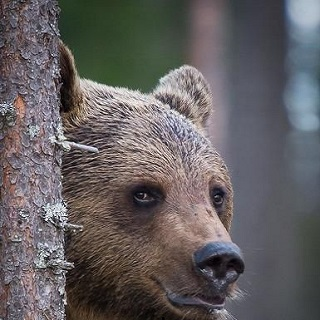
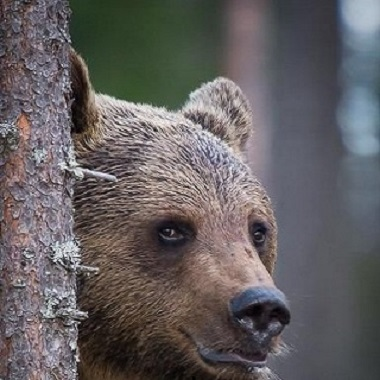
CSS HW2 Second try

diff --git a/public/views/css/homework-2/css/style.css b/public/views/css/homework-2/css/style.css
@@ -44,20 +44,12 @@ footer {
 /*Header style*/
 header {
   height: 60px;
-  position: relative;
-}
-.menu {
-  position: absolute;
-  left: : 0;
-  top: 50%;
-  margin-top: -8px;
-  padding-left: 25px;
+  padding: 22px 25px;
 }
 .autorization {
   position: absolute;
   right: 0;
-  top: 50%;
-  margin-top: -8px;
+  top: 22px;
   padding-right: 25px;
 }
 
@@ -86,17 +78,10 @@ table {
 }
 td {
   border: 1px solid #444;
-}
-td {
-  height: 420px;
-  position: relative;
+  padding: 20px 55px;
 }
 img {
-  width: 380px;
-  position: absolute;
-  left: 50%;
-  margin-top: -190px;
-  margin-left: -190px;
+  margin: auto;
 }
 
 /*Form style*/
@@ -107,28 +92,26 @@ input {
   border: 1px solid #444;
   font-size: 16px;
   margin-right: 30px;
-  padding: 6.8px 15px;
+  padding: 0px 15px;
+  height: 36px;
 }
 button {
   border: 1px solid #444;
   text-transform: uppercase;
   font-weight: bold;
-  padding: 8px 15px;
+  padding: 0px 15px;
+  height: 36px;
 }
 button:hover {
-  border: 1px solid orange;
+  border-color: orange;
 }
 
 /*Footer style*/
 footer {
   height: 60px;
-  position: relative;
+  padding-top: 22px;
 }
 footer p {
-  position: absolute;
-  top: 50%;
-  left: 50%;
-  margin-top: -8px;
-  margin-left: -77.375px;
   font-size: 16px;
+  text-align: center;
 }

diff --git a/public/views/css/homework-2/index.html b/public/views/css/homework-2/index.html
@@ -10,13 +10,17 @@
   <body>
     <div class="wrapper">
       <header>
-        <nav class="menu">
+        <nav>
           <a href="">Home</a>
           <a href="">About</a>
           <a href="">Portfolio</a>
           <a href="">Contacts</a>
         </nav>
-        <a class="autorization" href="">Log in / Sign in</a>
+        <div class="autorization">
+          <a href="">Log in</a>
+          /
+          <a href="">Sign in</a>
+        </div>
       </header>
       <div class="content">
         <main>
@@ -26,7 +30,7 @@
               <tbody>
                 <tr>
                   <td>
-                    <img src="./img/space.jpg" alt="" />
+                    <img src="./img/space.jpg" alt="" />                    
                   </td>
                   <td>
                     <img src="./img/galaxy.jpg" alt="" />
